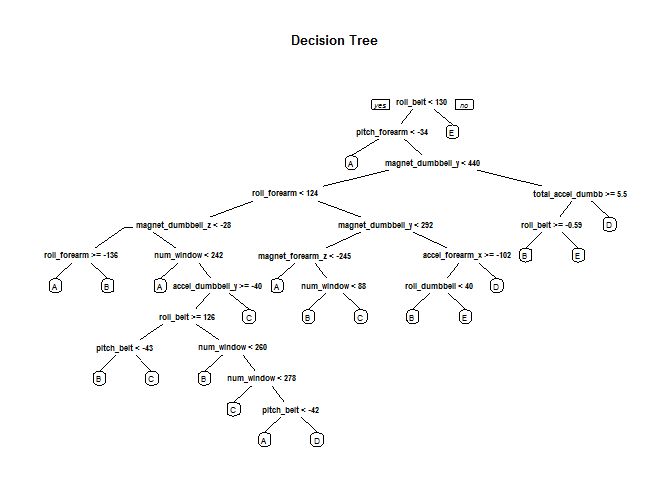
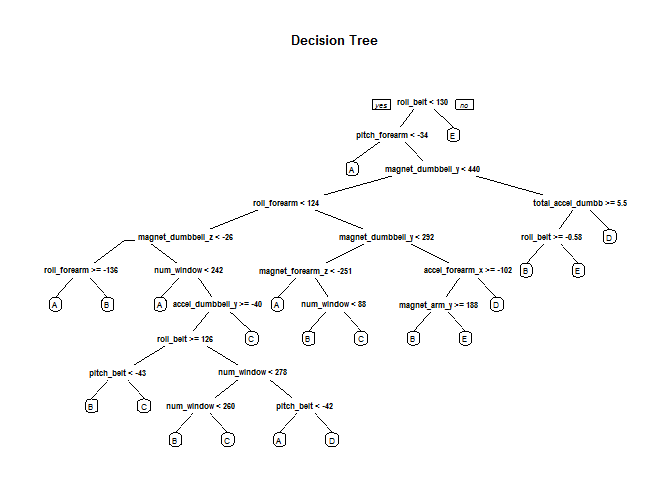
set seed
set seed

diff --git a/BarBell_lifts_clssification.html b/BarBell_lifts_clssification.html
@@ -87,6 +87,7 @@ library(&quot;rpart.plot&quot;)
 library(randomForest)</code></pre>
 <pre><code>## randomForest 4.6-12
 ## Type rfNews() to see new features/changes/bug fixes.</code></pre>
+<pre class="r"><code>set.seed(&quot;1234&quot;)</code></pre>
 <pre class="r"><code>fname.training &lt;- &quot;pml-training.csv&quot;
 fname.testing &lt;- &quot;pml-testing.csv&quot;
 if ( !file.exists(fname.training))
@@ -173,48 +174,48 @@ resDT= (subCV$class==predictDT )
 # Plot result
 rpart.plot(FitDT, main=&quot;Decision Tree&quot;)</code></pre>
 <div class="figure">
[2 lines of base64/hex data omitted]
 </div>
 <pre class="r"><code>confusionMatrix(predictDT, subCV$classe)</code></pre>
 <pre><code>## Confusion Matrix and Statistics
 ## 
 ##           Reference
 ## Prediction    A    B    C    D    E
-##          A 1245  154   36   53   48
-##          B   47  543   28   60   90
-##          C   16   71  693  119   75
-##          D   73  122   47  538  111
-##          E   14   59   51   34  577
+##          A 1234  171   33   65   51
+##          B   58  584   53   65  104
+##          C   10   60  686  111   75
+##          D   75  101   57  520  102
+##          E   18   33   26   43  569
 ## 
 ## Overall Statistics
-##                                           
-##                Accuracy : 0.7333          
-##                  95% CI : (0.7207, 0.7456)
-##     No Information Rate : 0.2845          
-##     P-Value [Acc &gt; NIR] : &lt; 2.2e-16       
-##                                           
-##                   Kappa : 0.6618          
-##  Mcnemar's Test P-Value : &lt; 2.2e-16       
+##                                        
+##                Accuracy : 0.7327       
+##                  95% CI : (0.72, 0.745)
+##     No Information Rate : 0.2845       
+##     P-Value [Acc &gt; NIR] : &lt; 2.2e-16    
+##                                        
+##                   Kappa : 0.6607       
+##  Mcnemar's Test P-Value : &lt; 2.2e-16    
 ## 
 ## Statistics by Class:
 ## 
 ##                      Class: A Class: B Class: C Class: D Class: E
-## Sensitivity            0.8925   0.5722   0.8105   0.6692   0.6404
-## Specificity            0.9171   0.9431   0.9306   0.9139   0.9605
-## Pos Pred Value         0.8105   0.7070   0.7115   0.6038   0.7850
-## Neg Pred Value         0.9555   0.9018   0.9588   0.9337   0.9223
+## Sensitivity            0.8846   0.6154   0.8023   0.6468   0.6315
+## Specificity            0.9088   0.9292   0.9368   0.9183   0.9700
+## Pos Pred Value         0.7941   0.6759   0.7282   0.6082   0.8258
+## Neg Pred Value         0.9519   0.9097   0.9573   0.9299   0.9212
 ## Prevalence             0.2845   0.1935   0.1743   0.1639   0.1837
-## Detection Rate         0.2539   0.1107   0.1413   0.1097   0.1177
-## Detection Prevalence   0.3132   0.1566   0.1986   0.1817   0.1499
-## Balanced Accuracy      0.9048   0.7576   0.8706   0.7915   0.8005</code></pre>
+## Detection Rate         0.2516   0.1191   0.1399   0.1060   0.1160
+## Detection Prevalence   0.3169   0.1762   0.1921   0.1743   0.1405
+## Balanced Accuracy      0.8967   0.7723   0.8696   0.7825   0.8008</code></pre>
 <p>Error of the predection using DT model</p>
 <pre class="r"><code>perDT&lt;- table ( resDT)
 errorDT &lt;- perDT[1]/perDT[2]
 perDT</code></pre>
 <pre><code>## resDT
 ## FALSE  TRUE 
-##  1308  3596</code></pre>
-<p>we get error using decision tree model is about36.3737486%.</p>
+##  1311  3593</code></pre>
+<p>we get error using decision tree model is about36.4876148%.</p>
 <p>** Apply random Forest model**</p>
 <pre class="r"><code>FitRF &lt;- randomForest(classe ~ ., data=subTraining, method=&quot;class&quot;)
 predictRF &lt;- predict(FitRF, subCV[,-ncol(subCV)], type = &quot;class&quot;)
@@ -225,40 +226,40 @@ confusionMatrix(predictRF, subCV$classe)</code></pre>
 ##           Reference
 ## Prediction    A    B    C    D    E
 ##          A 1395    1    0    0    0
-##          B    0  947    2    0    0
-##          C    0    1  853    3    0
-##          D    0    0    0  801    3
-##          E    0    0    0    0  898
+##          B    0  948    5    0    0
+##          C    0    0  850    5    0
+##          D    0    0    0  799    0
+##          E    0    0    0    0  901
 ## 
 ## Overall Statistics
 ##                                          
-##                Accuracy : 0.998          
-##                  95% CI : (0.9963, 0.999)
+##                Accuracy : 0.9978         
+##                  95% CI : (0.996, 0.9989)
 ##     No Information Rate : 0.2845         
 ##     P-Value [Acc &gt; NIR] : &lt; 2.2e-16      
 ##                                          
-##                   Kappa : 0.9974         
+##                   Kappa : 0.9972         
 ##  Mcnemar's Test P-Value : NA             
 ## 
 ## Statistics by Class:
 ## 
 ##                      Class: A Class: B Class: C Class: D Class: E
-## Sensitivity            1.0000   0.9979   0.9977   0.9963   0.9967
-## Specificity            0.9997   0.9995   0.9990   0.9993   1.0000
-## Pos Pred Value         0.9993   0.9979   0.9953   0.9963   1.0000
-## Neg Pred Value         1.0000   0.9995   0.9995   0.9993   0.9993
+## Sensitivity            1.0000   0.9989   0.9942   0.9938   1.0000
+## Specificity            0.9997   0.9987   0.9988   1.0000   1.0000
+## Pos Pred Value         0.9993   0.9948   0.9942   1.0000   1.0000
+## Neg Pred Value         1.0000   0.9997   0.9988   0.9988   1.0000
 ## Prevalence             0.2845   0.1935   0.1743   0.1639   0.1837
-## Detection Rate         0.2845   0.1931   0.1739   0.1633   0.1831
-## Detection Prevalence   0.2847   0.1935   0.1748   0.1639   0.1831
-## Balanced Accuracy      0.9999   0.9987   0.9983   0.9978   0.9983</code></pre>
+## Detection Rate         0.2845   0.1933   0.1733   0.1629   0.1837
+## Detection Prevalence   0.2847   0.1943   0.1743   0.1629   0.1837
+## Balanced Accuracy      0.9999   0.9988   0.9965   0.9969   1.0000</code></pre>
 <p>Error of the predection using random Forest model:</p>
 <pre class="r"><code>perRF&lt;- table ( resRF)
 errorRF &lt;- perRF[1]/perRF[2]
 perRF</code></pre>
 <pre><code>## resRF
 ## FALSE  TRUE 
-##    10  4894</code></pre>
-<p>we get error using random Forest model is about0.2043318%.</p>
+##    11  4893</code></pre>
+<p>we get error using random Forest model is about0.224811%.</p>
 </div>
 <div id="choose-model-and-apply-on-test-data-set" class="section level2">
 <h2>Choose Model and apply on test data set</h2>

diff --git a/BarBell_lifts_clssification.md b/BarBell_lifts_clssification.md
@@ -40,6 +40,10 @@ library(randomForest)
 ## Type rfNews() to see new features/changes/bug fixes.
 ```
 
+```r
+set.seed("1234")
+```
+
 
 
 ```r
@@ -174,33 +178,33 @@ confusionMatrix(predictDT, subCV$classe)
 ## 
 ##           Reference
 ## Prediction    A    B    C    D    E
-##          A 1245  154   36   53   48
-##          B   47  543   28   60   90
-##          C   16   71  693  119   75
-##          D   73  122   47  538  111
-##          E   14   59   51   34  577
+##          A 1234  171   33   65   51
+##          B   58  584   53   65  104
+##          C   10   60  686  111   75
+##          D   75  101   57  520  102
+##          E   18   33   26   43  569
 ## 
 ## Overall Statistics
-##                                           
-##                Accuracy : 0.7333          
-##                  95% CI : (0.7207, 0.7456)
-##     No Information Rate : 0.2845          
-##     P-Value [Acc > NIR] : < 2.2e-16       
-##                                           
-##                   Kappa : 0.6618          
-##  Mcnemar's Test P-Value : < 2.2e-16       
+##                                        
+##                Accuracy : 0.7327       
+##                  95% CI : (0.72, 0.745)
+##     No Information Rate : 0.2845       
+##     P-Value [Acc > NIR] : < 2.2e-16    
+##                                        
+##                   Kappa : 0.6607       
+##  Mcnemar's Test P-Value : < 2.2e-16    
 ## 
 ## Statistics by Class:
 ## 
 ##                      Class: A Class: B Class: C Class: D Class: E
-## Sensitivity            0.8925   0.5722   0.8105   0.6692   0.6404
-## Specificity            0.9171   0.9431   0.9306   0.9139   0.9605
-## Pos Pred Value         0.8105   0.7070   0.7115   0.6038   0.7850
-## Neg Pred Value         0.9555   0.9018   0.9588   0.9337   0.9223
+## Sensitivity            0.8846   0.6154   0.8023   0.6468   0.6315
+## Specificity            0.9088   0.9292   0.9368   0.9183   0.9700
+## Pos Pred Value         0.7941   0.6759   0.7282   0.6082   0.8258
+## Neg Pred Value         0.9519   0.9097   0.9573   0.9299   0.9212
 ## Prevalence             0.2845   0.1935   0.1743   0.1639   0.1837
-## Detection Rate         0.2539   0.1107   0.1413   0.1097   0.1177
-## Detection Prevalence   0.3132   0.1566   0.1986   0.1817   0.1499
-## Balanced Accuracy      0.9048   0.7576   0.8706   0.7915   0.8005
+## Detection Rate         0.2516   0.1191   0.1399   0.1060   0.1160
+## Detection Prevalence   0.3169   0.1762   0.1921   0.1743   0.1405
+## Balanced Accuracy      0.8967   0.7723   0.8696   0.7825   0.8008
 ```
 
 Error of the predection using DT model 
@@ -215,10 +219,10 @@ perDT
 ```
 ## resDT
 ## FALSE  TRUE 
-##  1308  3596
+##  1311  3593
 ```
 
-we get error using decision tree model is about36.3737486%.
+we get error using decision tree model is about36.4876148%.
 
 ** Apply random Forest model**
 
@@ -236,32 +240,32 @@ confusionMatrix(predictRF, subCV$classe)
 ##           Reference
 ## Prediction    A    B    C    D    E
 ##          A 1395    1    0    0    0
-##          B    0  947    2    0    0
-##          C    0    1  853    3    0
-##          D    0    0    0  801    3
-##          E    0    0    0    0  898
+##          B    0  948    5    0    0
+##          C    0    0  850    5    0
+##          D    0    0    0  799    0
+##          E    0    0    0    0  901
 ## 
 ## Overall Statistics
 ##                                          
-##                Accuracy : 0.998          
-##                  95% CI : (0.9963, 0.999)
+##                Accuracy : 0.9978         
+##                  95% CI : (0.996, 0.9989)
 ##     No Information Rate : 0.2845         
 ##     P-Value [Acc > NIR] : < 2.2e-16      
 ##                                          
-##                   Kappa : 0.9974         
+##                   Kappa : 0.9972         
 ##  Mcnemar's Test P-Value : NA             
 ## 
 ## Statistics by Class:
 ## 
 ##                      Class: A Class: B Class: C Class: D Class: E
-## Sensitivity            1.0000   0.9979   0.9977   0.9963   0.9967
-## Specificity            0.9997   0.9995   0.9990   0.9993   1.0000
-## Pos Pred Value         0.9993   0.9979   0.9953   0.9963   1.0000
-## Neg Pred Value         1.0000   0.9995   0.9995   0.9993   0.9993
+## Sensitivity            1.0000   0.9989   0.9942   0.9938   1.0000
+## Specificity            0.9997   0.9987   0.9988   1.0000   1.0000
+## Pos Pred Value         0.9993   0.9948   0.9942   1.0000   1.0000
+## Neg Pred Value         1.0000   0.9997   0.9988   0.9988   1.0000
 ## Prevalence             0.2845   0.1935   0.1743   0.1639   0.1837
-## Detection Rate         0.2845   0.1931   0.1739   0.1633   0.1831
-## Detection Prevalence   0.2847   0.1935   0.1748   0.1639   0.1831
-## Balanced Accuracy      0.9999   0.9987   0.9983   0.9978   0.9983
+## Detection Rate         0.2845   0.1933   0.1733   0.1629   0.1837
+## Detection Prevalence   0.2847   0.1943   0.1743   0.1629   0.1837
+## Balanced Accuracy      0.9999   0.9988   0.9965   0.9969   1.0000
 ```
 
 Error of the predection using random Forest model:
@@ -276,10 +280,10 @@ perRF
 ```
 ## resRF
 ## FALSE  TRUE 
-##    10  4894
+##    11  4893
 ```
 
-we get error using random Forest model is about0.2043318%.
+we get error using random Forest model is about0.224811%.
 
 
 ## Choose Model and apply on test data set
